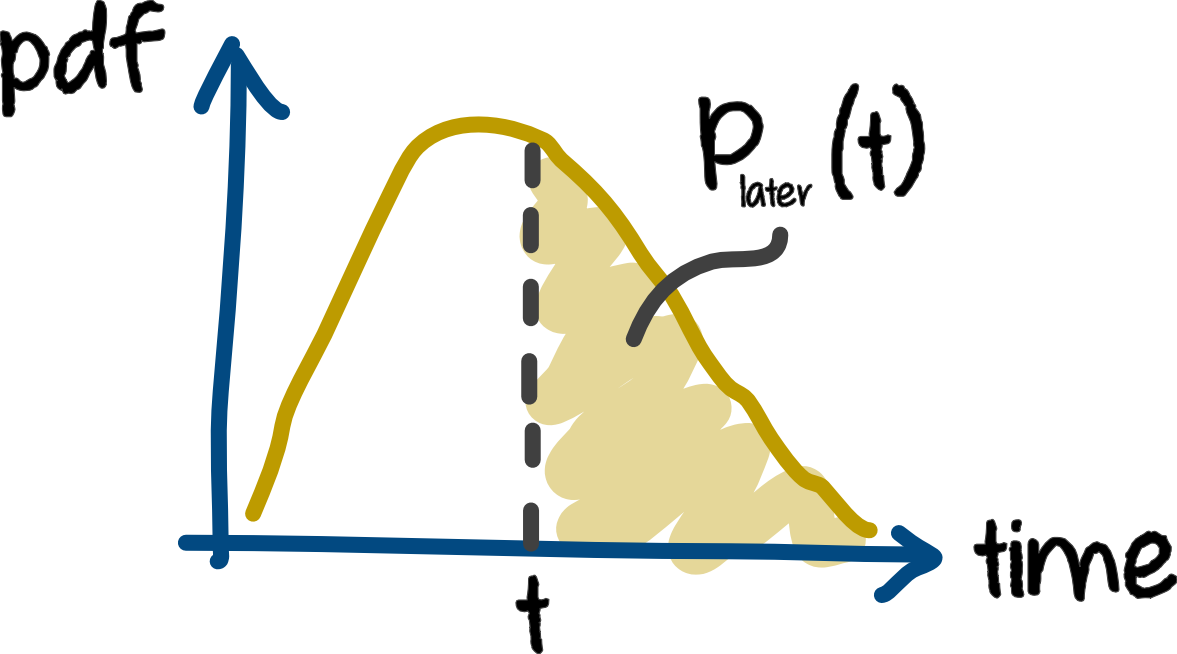
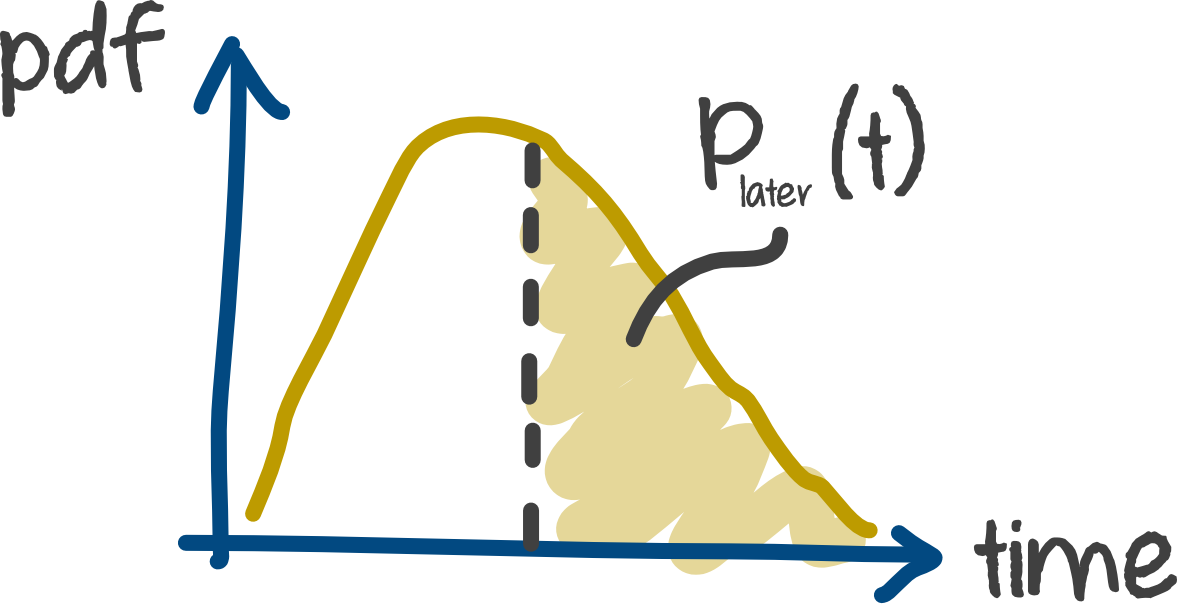
smaller plater

diff --git a/_posts/2016-11-15-phifail.md b/_posts/2016-11-15-phifail.md
@@ -94,7 +94,7 @@ failure detector in this paper. Theoretically speaking, we can choose any comput
 $$P_{later}{t}$$ that is suitable to our need. The picture below demonstrate this
 probabilistic model.
 
-![Accrual Structure]({{site.baseurl}}/img/phifail_plater.png){:.center} 
+![Accrual Structure]({{site.baseurl}}/img/phifail_plater.png){width="60%" :.center} 
 
 Until this point, we have the suspicion level $$\varphi$$ and the probabilistic
 model for computing $$\varphi$$. In order to adapt the network condition
